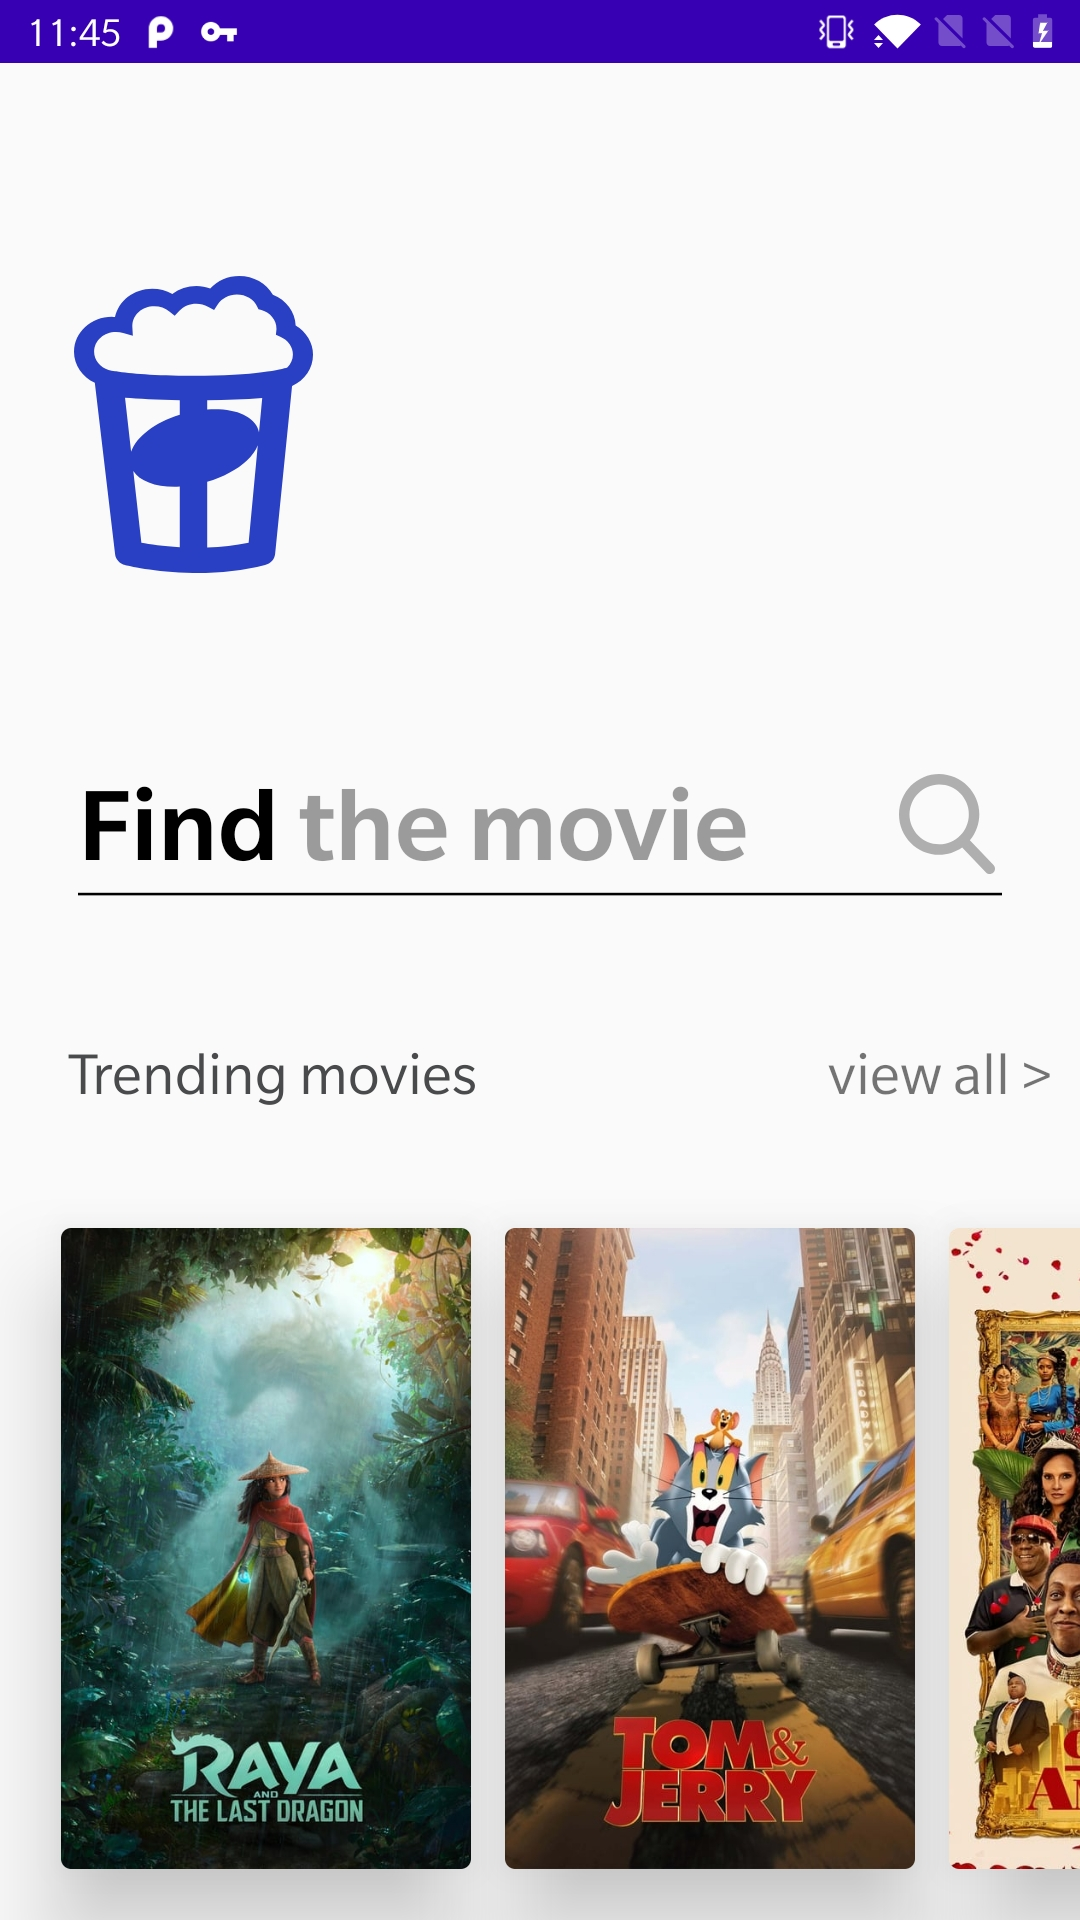
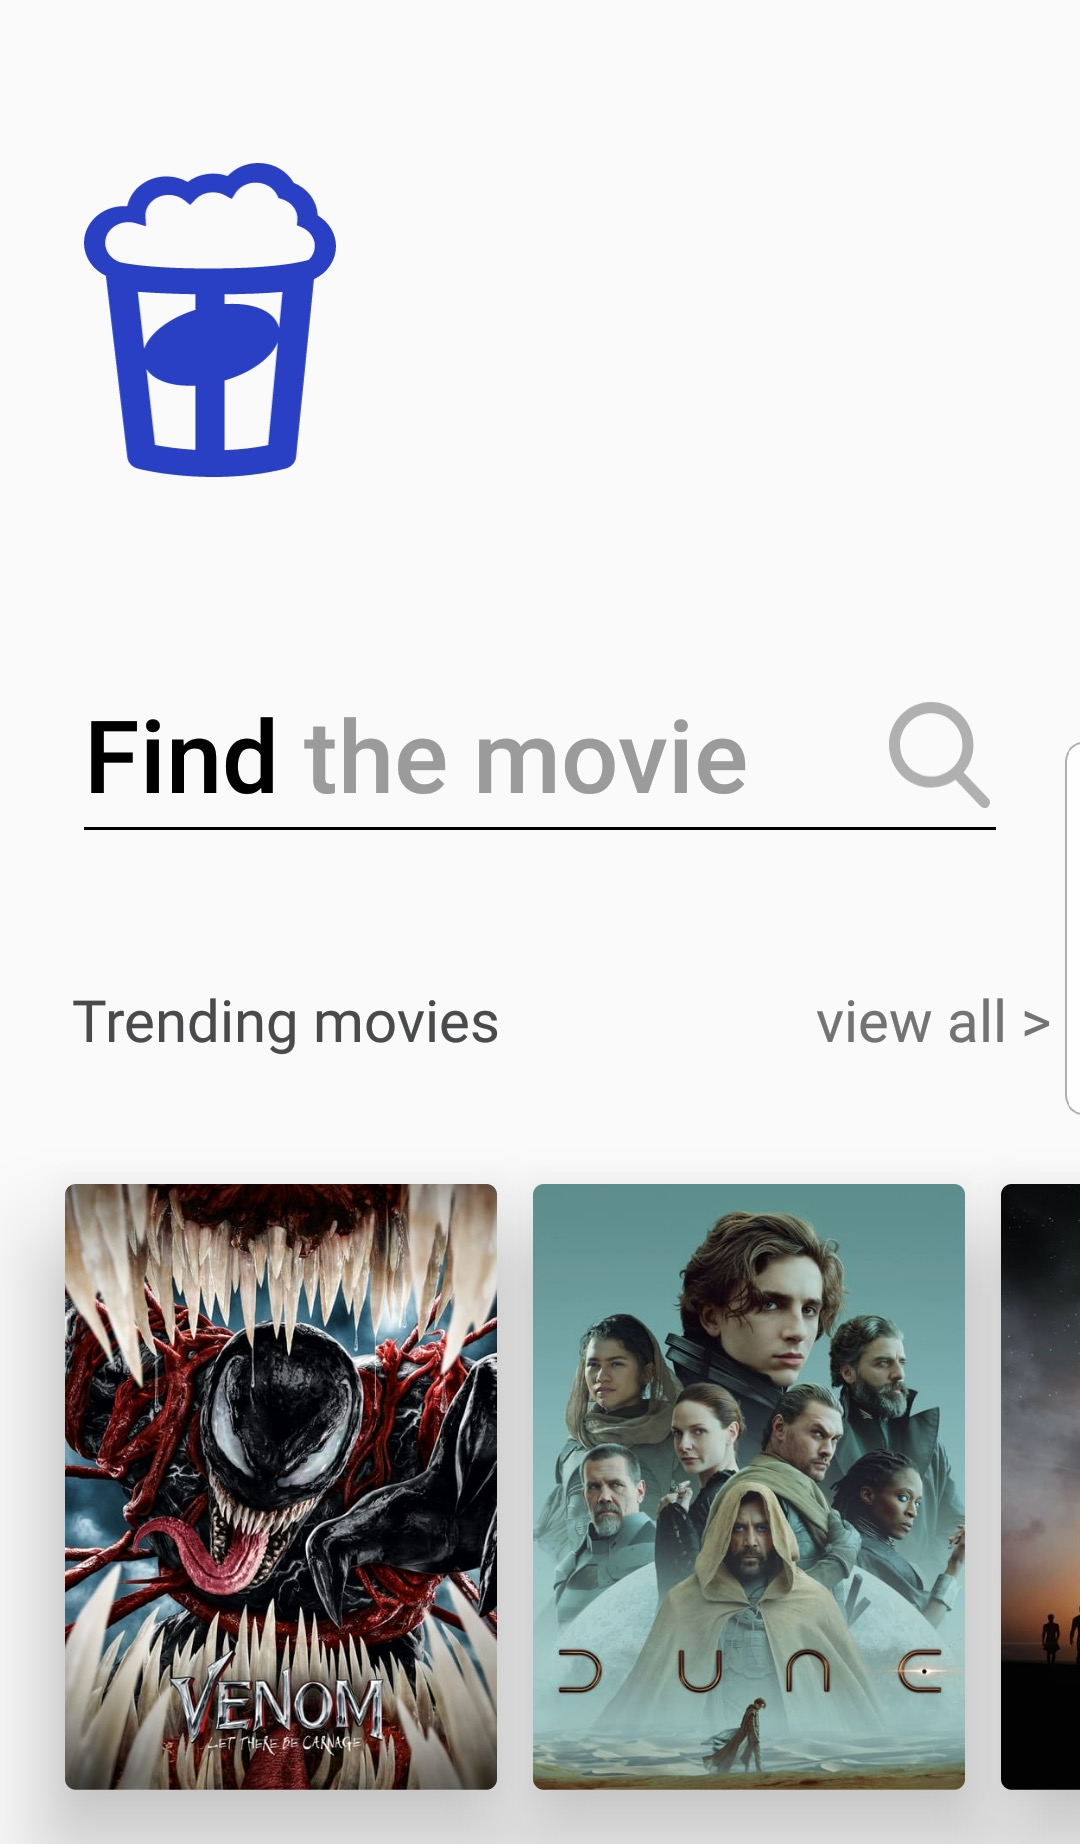
screens

diff --git a/README.md b/README.md
@@ -1,3 +1,6 @@
+![screen1](screens/screen1.jpg)
+![screen1](screens/screen2.jpg)
+![screen1](screens/screen3.jpg)
 
 ## Overview ##
 The app is write in Kotlin using MVVM architecture pattern and Android Jetpack together with other third party libraries .
@@ -54,3 +57,7 @@ https://github.com/GuilhE/SharedPrefs-ktx/tree/master/converter-gson
 ### Things to do ###
 Save API key in a secure manner.
 Handling network and other events.
+
+
+
+
